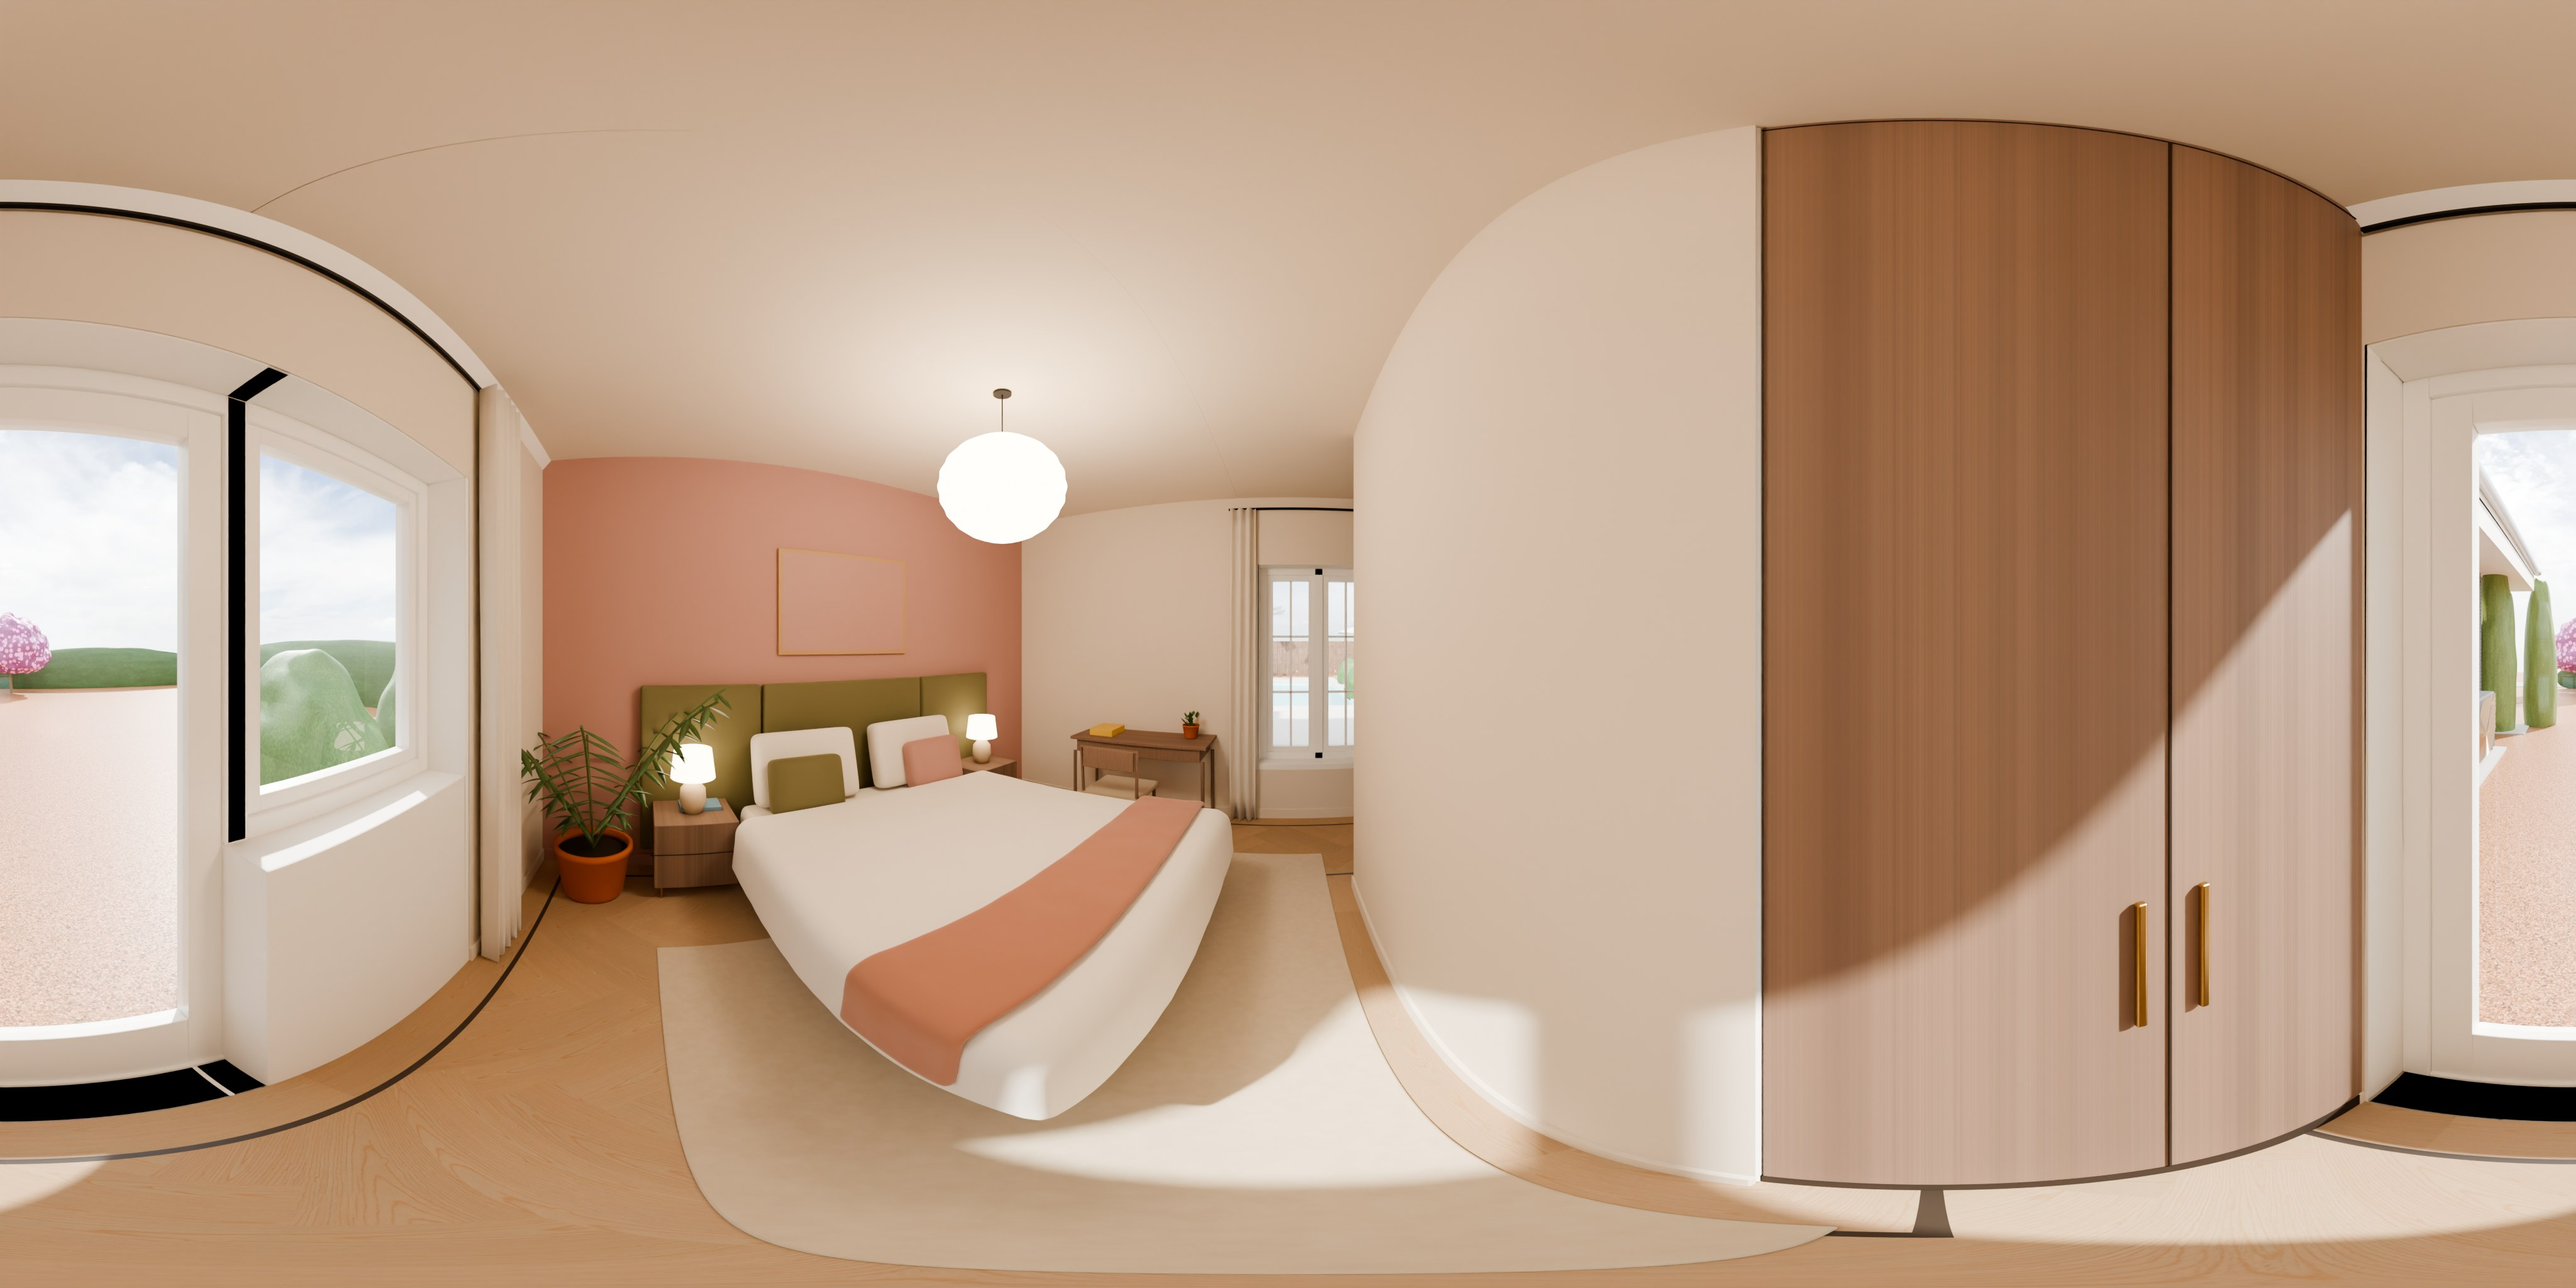
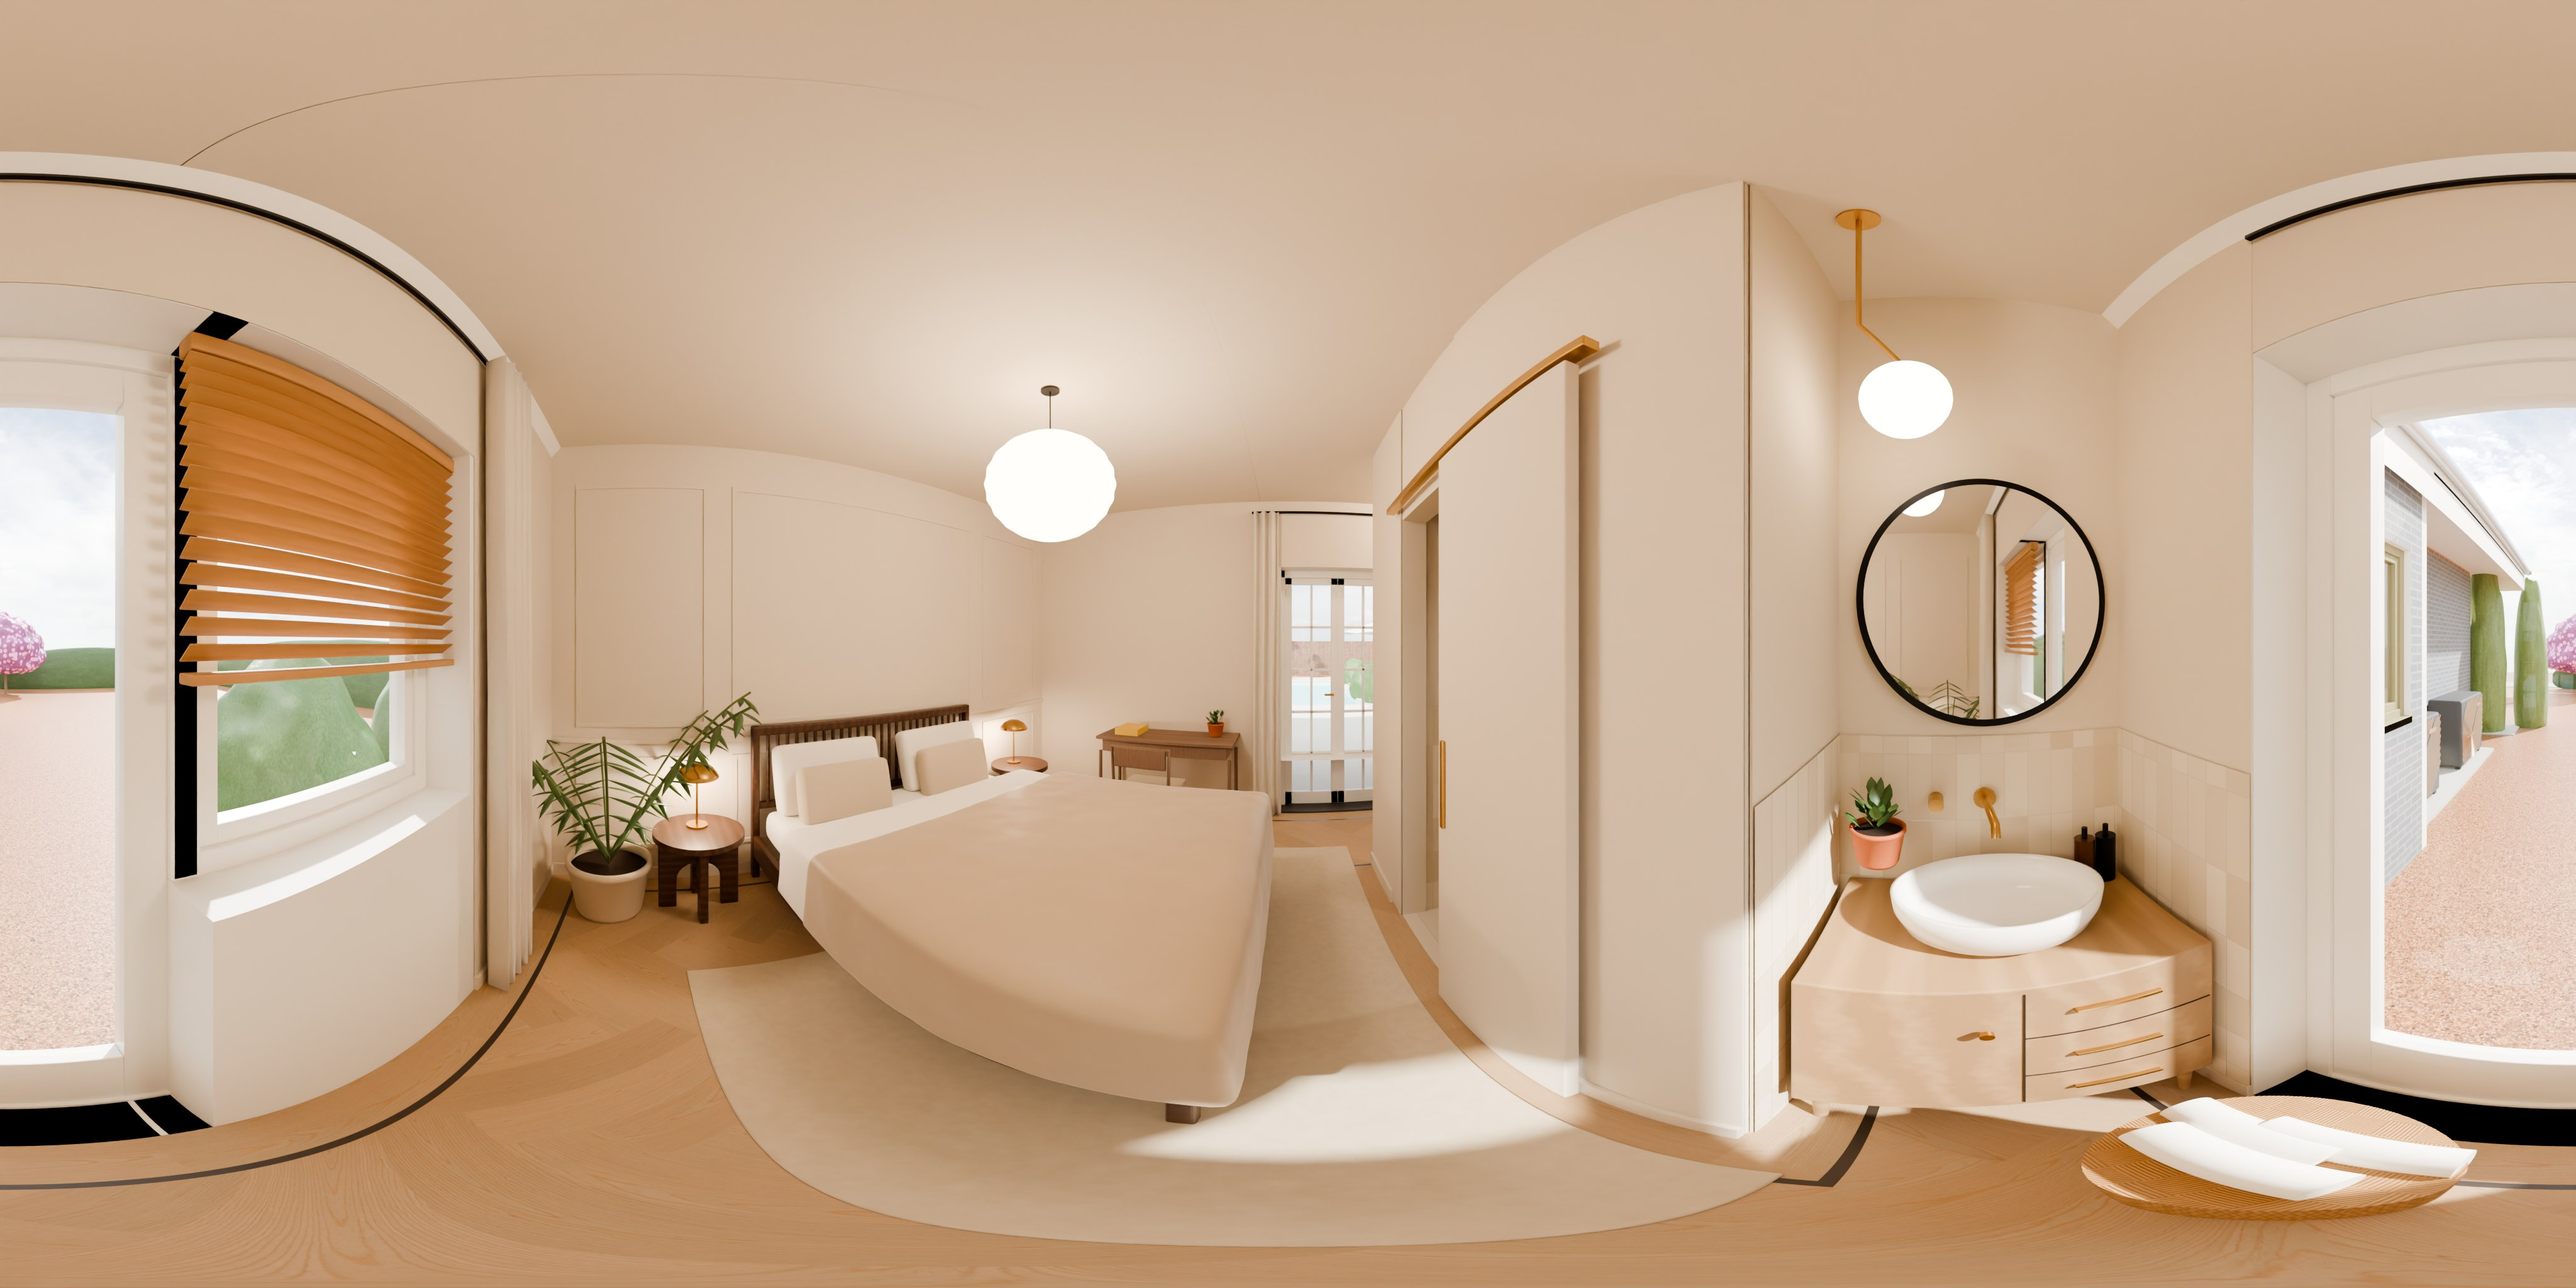
Slaapkamer en badkamer BG: optie D (kast in de doorloop, natte cel, wastafel in de nis, wandpanelen, spijlenbed, zellige en messing)

diff --git a/uitleg.html b/uitleg.html
@@ -171,18 +171,20 @@
 
   <article class="ruimte">
     <div class="beelden">
-      <img src="img/sfeer/30-slaapkamer.jpg" alt="Slaapkamer met bed tegen een Terra Pink-wand, mosgroen gestoffeerd hoofdbord en walnoten nachtkastjes" loading="lazy">
+      <img src="img/sfeer/30-slaapkamer.jpg" alt="Slaapkamer met wandpanelen, walnoten spijlenbed, champagne sprei en sculpturale bijzettafels met messing lampjes" loading="lazy">
       <div class="rij">
-        <img src="img/sfeer/31-badkamer.jpg" alt="Badkamer met inloopdouche, notenhouten wastafelmeubel en ronde spiegel" loading="lazy">
+        <img src="img/sfeer/31-badkamer.jpg" alt="Natte cel met crème staande tegels, messing regendouche, glaswand en hangtoilet" loading="lazy">
+        <img src="img/sfeer/35-wastafelnis.jpg" alt="Eiken wastafelmeubel met waskom, messing kraan en ronde zwarte spiegel in de nis" loading="lazy">
         <img src="img/sfeer/34-slaapkamer-avond.jpg" alt="Slaapkamer 's avonds met gesloten linnen gordijnen en de lampjes aan" loading="lazy">
       </div>
     </div>
     <div>
-      <h3>Slaapkamer en badkamer: logeren als in een hotel</h3>
-      <p>De kleurtekening houdt bij de woonkamer op; voor de slaapkamer is dit een eigen voorstel in dezelfde lijn. De wanden zijn Frosted Sand en de bedwand (de dichte zijgevel) Terra Pink, dezelfde kleur als de tv-wand. Zo voelt de slaapkamer als een rustiger vervolg op de woonkamer.</p>
-      <p>Een bed van 160 × 200 met een mosgroen gestoffeerd hoofdbord over de volle breedte, linnen beddengoed en een roestkleurige plaid. Daarnaast walnoten nachtkastjes met keramische lampjes. De kast past precies in de nis, tot aan het plafond, in hetzelfde walnoot als de keuken en de speelkamer. Langs de tuinwand staat een smal bureautje, onder het bed een wollen kleed, en de gordijnen zijn linnen.</p>
-      <p>De badkamer is aangekleed met een mosgroene badmat, handdoeken, een amberkleurige zeeppomp en een plantje.</p>
-      <div class="tags"><span class="tag"><i style="background:var(--tulle)"></i>bedwand Terra Pink</span><span class="tag"><i style="background:var(--sand)"></i>Frosted Sand</span><span class="tag"><i style="background:#6B4A33"></i>walnoot</span></div>
+      <h3>Slaapkamer en badkamer: een suite als in een hotel</h3>
+      <p>De kleurtekening houdt bij de woonkamer op; voor de slaapkamer en badkamer is dit een eigen voorstel (optie D), in de sfeer van de voorbeelden van het gezin: zacht, licht en tijdloos, met walnoot, eiken en messing.</p>
+      <p><b>Indeling.</b> De wand tussen de doorloop en de badkamer schuift op. In de doorloop naar de woonkamer komt een inbouwkast tot het plafond, 52 cm diep, met fronten in de wandkleur en dunne messing grepen. Het muurtje tegenover het voeteneind loopt door tot de kastfront, zodat de kast als een wand leest. Tegenover de kast zitten de openslaande tuindeuren en een raam met roedes, dus de doorloop (ruim 90 cm) is licht; de deur naar de woonkamer wordt een gewone deurbreedte. De badkamer wordt een natte cel van 177 × 136 cm met een schuifdeur aan de bedkant. Op de plek van de oude kast in de nis komt de wastafel, open in de slaapkamer. Zo blijft de slaapkamer zelf vrij: het bed staat in het midden en het bureautje langs de tuinwand.</p>
+      <p><b>Slaapkamer.</b> Alle wanden zijn Frosted Sand; de bedwand krijgt wandpanelen (lijstwerk) in dezelfde kleur. Een walnoten spijlenbed van 160 × 200 met wit beddengoed en een gestikte sprei in champagne. Daarnaast sculpturale walnoten bijzettafels met messing paddenstoellampjes. Voor de ramen houten jaloezieën en linnen gordijnen.</p>
+      <p><b>Badkamer.</b> Glanzende, staande tegels in crème (zellige-achtig) tot 1,20 m en in de douche tot 2,20 m, daarboven warm kalkstuc. Een inloopdouche van 90 × 134 met een glaswand van 60 cm en een messing regendouche, een compact hangtoilet in een betegelde voorzetwand met een eiken plank, en een messing handdoekradiator erboven. In de nis een eiken wastafelmeubel op pootjes met een opzetkom, een messing wandkraan, een ronde zwarte spiegel en een opaal bollamp.</p>
+      <div class="tags"><span class="tag"><i style="background:var(--sand)"></i>Frosted Sand + wandpanelen</span><span class="tag"><i style="background:#E7DDC9"></i>crème tegels</span><span class="tag"><i style="background:#C8A061"></i>messing</span><span class="tag"><i style="background:#6B4A33"></i>walnoot</span></div>
     </div>
   </article>
 
@@ -258,8 +260,8 @@
       <li><b>Speelkamer.</b> Achter de glazen pui; walnoten kastenwand met bureaunis, leesfauteuil in de raamhoek.</li>
       <li><b>Keuken met erker.</b> Kastenwand en eiland; de erker aan de straatzijde.</li>
       <li><b>Hal.</b> Rustig in Frosted Sand, met dezelfde pvc-visgraat maar zonder band en bies. De trap ligt open langs een dichte borstwering met witte afdekrail en een witte leuning aan de wand. Achter de voordeur ligt een gespikkeld grijsbruin schoonlooptapijt over de hele entree. De trapkast- en wc-deur zijn wit, en de deur naar de keuken is een stalen glasdeur in lijn met de pui.</li>
-      <li><b>Slaapkamer.</b> Bed tegen de dichte zijgevel, met ±70 cm vrij aan het voeteneind en langs de zijkant. Kast in de nis, bureautje langs de tuinwand.</li>
-      <li><b>Badkamer.</b> Inloopdouche, hangtoilet en wastafelmeubel; via de slaapkamer bereikbaar.</li>
+      <li><b>Slaapkamer.</b> Bed in het midden tegen de dichte zijgevel (±70 cm vrij aan het voeteneind), wastafel in de nis, bureautje langs de tuinwand; inbouwkast in de doorloop tegenover de tuindeuren en het raam.</li>
+      <li><b>Badkamer.</b> Natte cel van 177 × 136 met inloopdouche en hangtoilet, schuifdeur aan de bedkant.</li>
     </ol>
   </div>
   <div class="plangrid" style="margin-top:28px">
@@ -282,7 +284,7 @@
     <div class="kleur"><div class="staal" style="background:var(--sand)"><span>1</span></div><div class="tekst"><b>Frosted Sand</b><small>LAB no. 374 · verf</small><p>De basis: hal, eetzone, keuken, speelkamer, slaapkamer en alle plafonds.</p></div></div>
     <div class="kleur"><div class="staal" style="background:var(--moss);color:#F4EEE4"><span>2</span></div><div class="tekst"><b>Monumental Moss</b><small>LAB no. 265 · verf</small><p>De bogen (beide zijden), kozijnen in keuken en speelkamer, de glazen pui en de glazen keukendeur.</p></div></div>
     <div class="kleur"><div class="staal patroon-bounty"><span>3</span></div><div class="tekst"><b>Bounty</b><small>ARTE 24024 · behang</small><p>Vervallen: de woningscheidende wand in eetzone en keuken wordt Frosted Sand, met een groot schilderij bij de keuken.</p></div></div>
-    <div class="kleur"><div class="staal" style="background:var(--tulle);color:#F4EEE4"><span>4</span></div><div class="tekst"><b>Terra Pink</b><small>LAB no. 102 · verf</small><p>Tv-wand achter de bank in de woonkamer en de bedwand in de slaapkamer, plint mee in de kleur.</p></div></div>
+    <div class="kleur"><div class="staal" style="background:var(--tulle);color:#F4EEE4"><span>4</span></div><div class="tekst"><b>Terra Pink</b><small>LAB no. 102 · verf</small><p>Tv-wand achter de bank in de woonkamer, plint mee in de kleur.</p></div></div>
     <div class="kleur"><div class="staal" style="background:var(--merlot);color:#F4EEE4"><span>5</span></div><div class="tekst"><b>Merlot Mania</b><small>LAB no. 123 · verf</small><p>Woonkamer en toilet, inclusief kozijnen, plinten en deuren.</p></div></div>
   </div>
   <div class="regels">
@@ -317,9 +319,11 @@
       <tr><td>Keuken</td><td>4 barkrukken, greige stof, walnoten poten</td><td>Ronde zitting met kuipleuning; 2 aan de wandkant, 1 aan de kop, 1 aan de kookkant</td></tr>
       <tr><td>Keuken</td><td>Koffienis: Profitec Pro + Eureka Mignon</td><td>RVS E61-machine en zwarte molen op het werkblad, kopjes op de planken</td></tr>
       <tr><td>Keuken / hal</td><td>Stalen glasdeur, Monumental Moss</td><td>Zelfde profiel en roedes (0,75 en 1,52 m) als de pui van de speelkamer</td></tr>
-      <tr><td>Slaapkamer</td><td>Bed 160 × 200 met gestoffeerd hoofdbord</td><td>Hoofdbord in mosgroen velours over de volle breedte; linnen beddengoed, roestkleurige plaid</td></tr>
-      <tr><td>Slaapkamer</td><td>Walnoten kast in de nis</td><td>Vloer tot plafond, messing grepen; zelfde walnoot als keuken en speelkamer</td></tr>
-      <tr><td>Slaapkamer</td><td>Nachtkastjes, bureautje, Akari-hanglamp</td><td>Walnoot; keramische lampjes met linnen kap</td></tr>
+      <tr><td>Slaapkamer</td><td>Walnoten spijlenbed 160 × 200</td><td>Wit beddengoed, gestikte sprei in champagne; wandpanelen achter het bed</td></tr>
+      <tr><td>Slaapkamer</td><td>Bijzettafels en lampjes</td><td>Sculpturale walnoten bijzettafels, messing paddenstoellampjes</td></tr>
+      <tr><td>Slaapkamer</td><td>Inbouwkast in de doorloop</td><td>Fronten in de wandkleur, tot het plafond, 52 cm diep, dunne messing grepen</td></tr>
+      <tr><td>Slaapkamer</td><td>Wastafel in de nis</td><td>Eiken meubel op pootjes, opzetkom, messing wandkraan, ronde zwarte spiegel</td></tr>
+      <tr><td>Badkamer</td><td>Natte cel</td><td>Crème staande tegels en kalkstuc, messing regendouche, glaswand 60, compact hangtoilet</td></tr>
       <tr><td>Meisjeskamer</td><td>IKEA Hemnes bedbank met 3 lades, wit</td><td>Ingeschoven, lange kant tegen de buurmuur; wandlampje erboven</td></tr>
       <tr><td>Meisjeskamer</td><td>Rotan hangstoel, neon spiegel</td><td>Hangstoel aan een ketting tussen de kamerdeur en de inbouwkast; boogspiegel met flamingo neonlijn naast de deur</td></tr>
       <tr><td>Meisjeskamer</td><td>Chillhoek met zitzak</td><td>Onder de schuinte naast de trap; grote zitzak, vloerkussen, voile, cotton-ball slinger</td></tr>

diff --git a/index.html b/index.html
@@ -163,7 +163,7 @@ const LINKS = {
 };
 const VOLGORDE = ['woonkamer', 'vleugel', 'eetzone', 'keuken', 'erker', 'eiland', 'speelkamer', 'hal', 'slaapkamer', 'slaapkamerbed', 'badkamer',
                   'overloop', 'gang', 'portaal', 'ouders', 'oudersraam', 'kinderkamer', 'kinderbedstede', 'meisjeskamer', 'meisjesleeshoek', 'inloopkast'];
-const HEEFT_FOTO = new Set(['badkamer-avond', 'badkamer', 'eetzone-avond', 'eetzone', 'eiland-avond', 'eiland', 'erker-avond', 'erker', 'gang-avond', 'gang', 'hal-avond', 'hal', 'inloopkast-avond', 'inloopkast', 'keuken-avond', 'keuken', 'kinderbedstede-avond', 'kinderbedstede', 'kinderkamer-avond', 'kinderkamer', 'meisjeskamer-avond', 'meisjeskamer', 'meisjesleeshoek-avond', 'meisjesleeshoek', 'ouders-avond', 'ouders', 'oudersraam-avond', 'oudersraam', 'overloop-avond', 'overloop', 'portaal-avond', 'portaal', 'slaapkamer-avond', 'slaapkamer', 'slaapkamerbed-avond', 'slaapkamerbed', 'speelkamer-avond', 'speelkamer', 'vleugel-avond', 'vleugel', 'woonkamer-avond', 'woonkamer']);   // AI-versies die er zijn
+const HEEFT_FOTO = new Set(['eetzone-avond', 'eetzone', 'eiland-avond', 'eiland', 'erker-avond', 'erker', 'gang-avond', 'gang', 'hal-avond', 'hal', 'inloopkast-avond', 'inloopkast', 'keuken-avond', 'keuken', 'kinderbedstede-avond', 'kinderbedstede', 'kinderkamer-avond', 'kinderkamer', 'meisjeskamer-avond', 'meisjeskamer', 'meisjesleeshoek-avond', 'meisjesleeshoek', 'ouders-avond', 'ouders', 'oudersraam-avond', 'oudersraam', 'overloop-avond', 'overloop', 'portaal-avond', 'portaal', 'speelkamer-avond', 'speelkamer', 'vleugel-avond', 'vleugel', 'woonkamer-avond', 'woonkamer']);   // AI-versies die er zijn
 const HEEFT_PANO = new Set(['badkamer-avond', 'badkamer', 'eetzone-avond', 'eetzone', 'eiland-avond', 'eiland', 'erker-avond', 'erker', 'gang-avond', 'gang', 'hal-avond', 'hal', 'inloopkast-avond', 'inloopkast', 'keuken-avond', 'keuken', 'kinderbedstede-avond', 'kinderbedstede', 'kinderkamer-avond', 'kinderkamer', 'meisjeskamer-avond', 'meisjeskamer', 'meisjesleeshoek-avond', 'meisjesleeshoek', 'ouders-avond', 'ouders', 'oudersraam-avond', 'oudersraam', 'overloop-avond', 'overloop', 'portaal-avond', 'portaal', 'slaapkamer-avond', 'slaapkamer', 'slaapkamerbed-avond', 'slaapkamerbed', 'speelkamer-avond', 'speelkamer', 'vleugel-avond', 'vleugel', 'woonkamer-avond', 'woonkamer']);   // 3D-renders die er zijn (publiceer_site.sh); standplaatsen zonder render vallen weg
 for (const id of Object.keys(SPOTS)) if (!HEEFT_PANO.has(id)) { delete SPOTS[id]; delete LINKS[id]; }
 VOLGORDE.splice(0, VOLGORDE.length, ...VOLGORDE.filter(id => SPOTS[id]));
